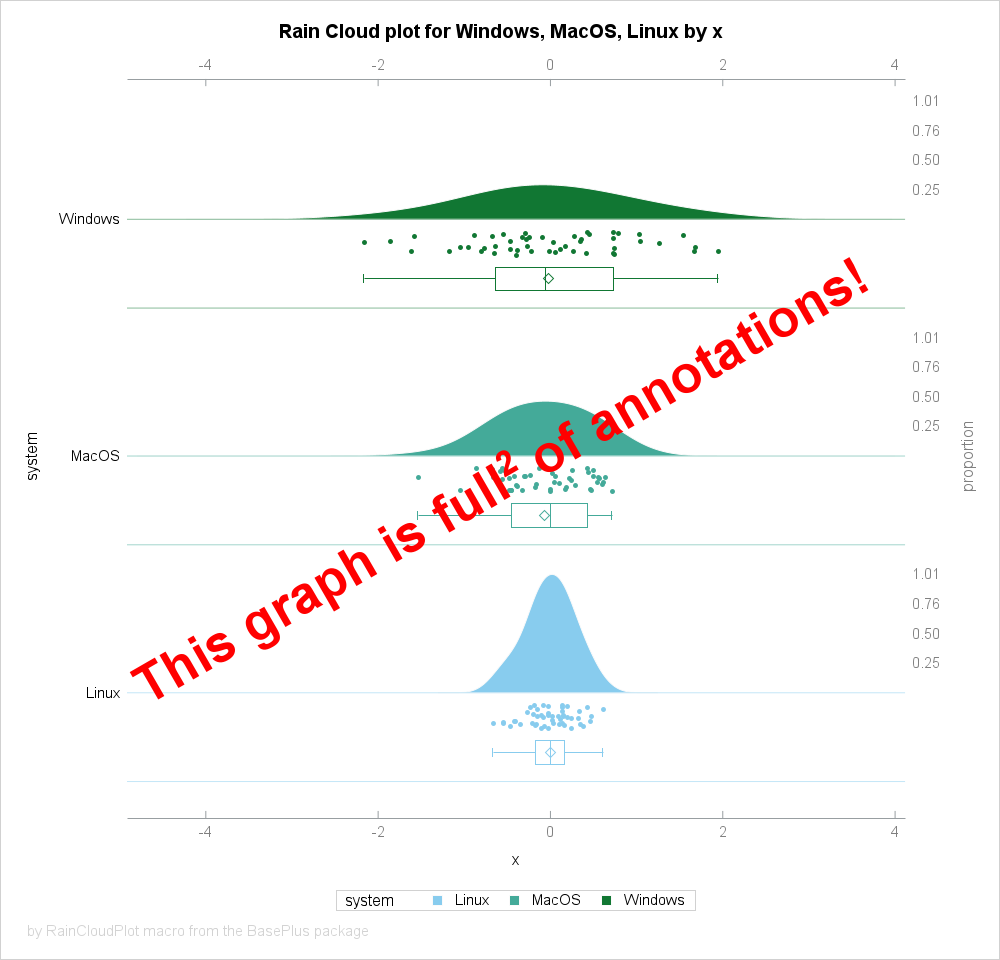
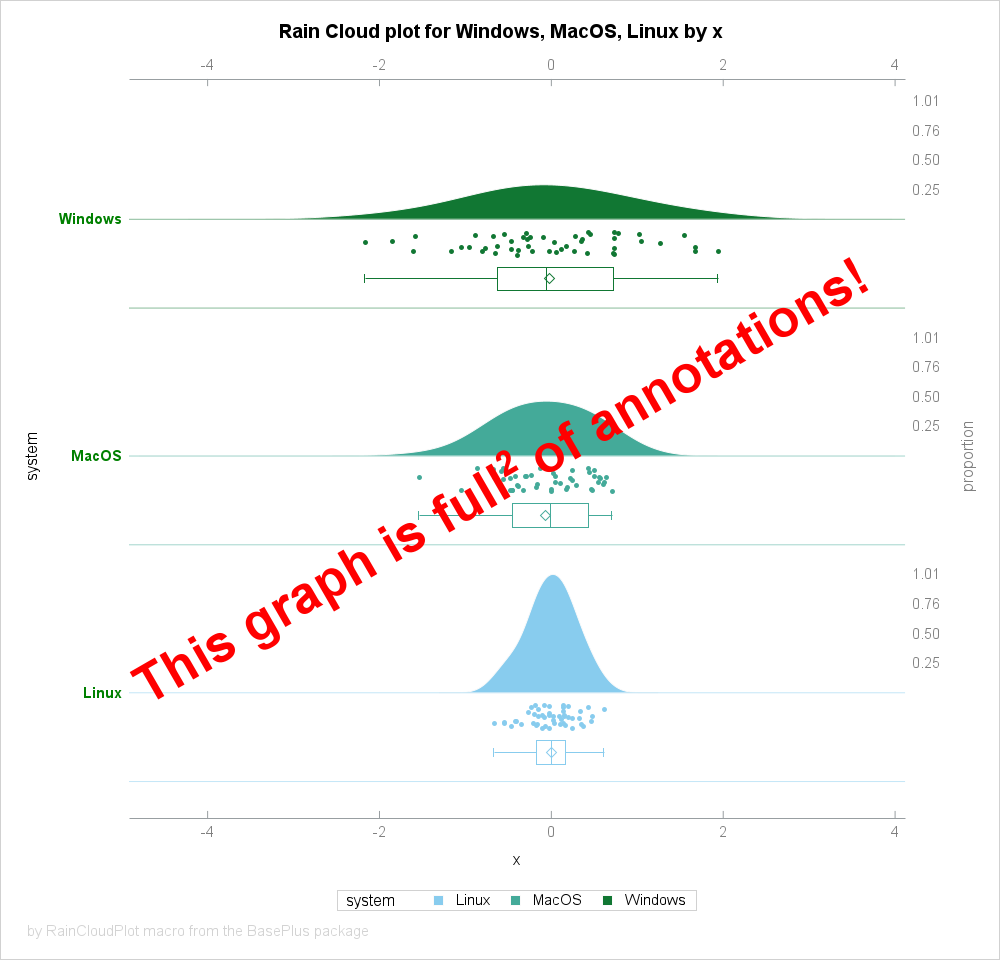
The BasePlus package [ver. 1.26.1]
The BasePlus package [ver. 1.26.1]

Updates:
- the `%RainCloudPlot()` has new parameter: `catAxisValueAttrs`,
- documentation was updated (refreshed example with plot).

The SHA256 hash digest for package BasePlus:
`F*D6DC5AD1B60A92AD300B639B3C361C1F7846EB01E5AB35BF4FDDA6E783408172`

diff --git a/packages/baseplus.md b/packages/baseplus.md
@@ -70,7 +70,7 @@
   
 ---
 
-# The BasePlus package [ver. 1.26.0] <a name="baseplus-package"></a> ###############################################
+# The BasePlus package [ver. 1.26.1] <a name="baseplus-package"></a> ###############################################
 
 The **BasePlus** package implements useful
 functions and functionalities I miss in the BASE SAS.
@@ -356,7 +356,7 @@ localization (only if additional content was deployed during the installation pr
 * SAS package generated by generatePackage, version 20230520 *
 
 The SHA256 hash digest for package BasePlus: 
-`F*B3CACDA32A5E70940E667DCA859483BD76DB082D19BAF326F28A580226DDD962` 
+`F*D6DC5AD1B60A92AD300B639B3C361C1F7846EB01E5AB35BF4FDDA6E783408172` 
 
 ---
 # Content description ############################################################################################
@@ -3135,6 +3135,7 @@ The basic syntax is the following, the `<...>` means optional parameters:
  <,y2axis=>
  <,y2axisLevels=>
  <,y2axisValueAttrs=>
+ <,catAxisValueAttrs=>
  <,xaxisValueAttrs=>
  <,xaxisTickstyle=>
  <,sganno=>
@@ -3244,6 +3245,9 @@ The basic syntax is the following, the `<...>` means optional parameters:
 
 * `y2axisValueAttrs`   - *Optional*, default value `Color=Grey`.
                          Allows to modify Y2 axis values attributes.
+
+* `catAxisValueAttrs`  - *Optional*, default value `Color=Black`.
+                         Allows to modify category (Y) axis values attributes.
 
 * `xaxisValueAttrs`    - *Optional*, default value `Color=Grey`.
                          Allows to modify X axis values attributes.
@@ -3447,6 +3451,7 @@ The output:
   , sgPlotOptions=noborder
   , WidthPX=1000
   , HeightPX=320
+  , catAxisValueAttrs=Color=Green weight=bold
   )
 
 ~~~~~~~~~~~~~~~~~~~~~~~~~~~~~~~~~~~~~~~~~~~~~~~~~~~~~~~~~~~~~~~~

diff --git a/README.md b/README.md
@@ -224,7 +224,7 @@ SHA256 digest for macroArray: F*85E3BE4D163AC5223B6EC9D3C25C46564A656E3830998B45
 
 [MacroArray in SASPAC](https://github.com/SASPAC/macroarray "MacroArray in SASPAC")
 
-- **BasePlus**\[1.26.0\] adds a bunch of functionalities I am missing in BASE SAS, such as:
+- **BasePlus**\[1.26.1\] adds a bunch of functionalities I am missing in BASE SAS, such as:
 ```sas
 call arrMissToRight(myArray); 
 call arrFillMiss(17, myArray); 
@@ -248,7 +248,7 @@ format x bool.;
 
 %put %repeatTxt(#,15,s=$) HELLO SAS! %repeatTxt(#,15,s=$);
 ```
-SHA256 digest for BasePlus: F*B3CACDA32A5E70940E667DCA859483BD76DB082D19BAF326F28A580226DDD962
+SHA256 digest for BasePlus: F*D6DC5AD1B60A92AD300B639B3C361C1F7846EB01E5AB35BF4FDDA6E783408172
 
 [Documentation for BasePlus](https://github.com/yabwon/SAS_PACKAGES/blob/main/packages/baseplus.md "Documentation for BasePlus")
 

diff --git a/packages/README.md b/packages/README.md
@@ -86,7 +86,7 @@ SHA256 digest for macroArray: F*85E3BE4D163AC5223B6EC9D3C25C46564A656E3830998B45
 
 ---
 
-- **BasePlus**\[1.26.0\] adds a bunch of functionalities I am missing in BASE SAS, such as: 
+- **BasePlus**\[1.26.1\] adds a bunch of functionalities I am missing in BASE SAS, such as: 
 ```sas
 call arrMissToRight(myArray); 
 call arrFillMiss(17, myArray); 
@@ -110,7 +110,7 @@ format x bool.;
 
 %put %repeatTxt(#,15,s=$) HELLO SAS! %repeatTxt(#,15,s=$);
 ```
-SHA256 digest for BasePlus: F*B3CACDA32A5E70940E667DCA859483BD76DB082D19BAF326F28A580226DDD962
+SHA256 digest for BasePlus: F*D6DC5AD1B60A92AD300B639B3C361C1F7846EB01E5AB35BF4FDDA6E783408172
 
 [Documentation for BasePlus](https://github.com/yabwon/SAS_PACKAGES/blob/main/packages/baseplus.md "Documentation for BasePlus")
 
